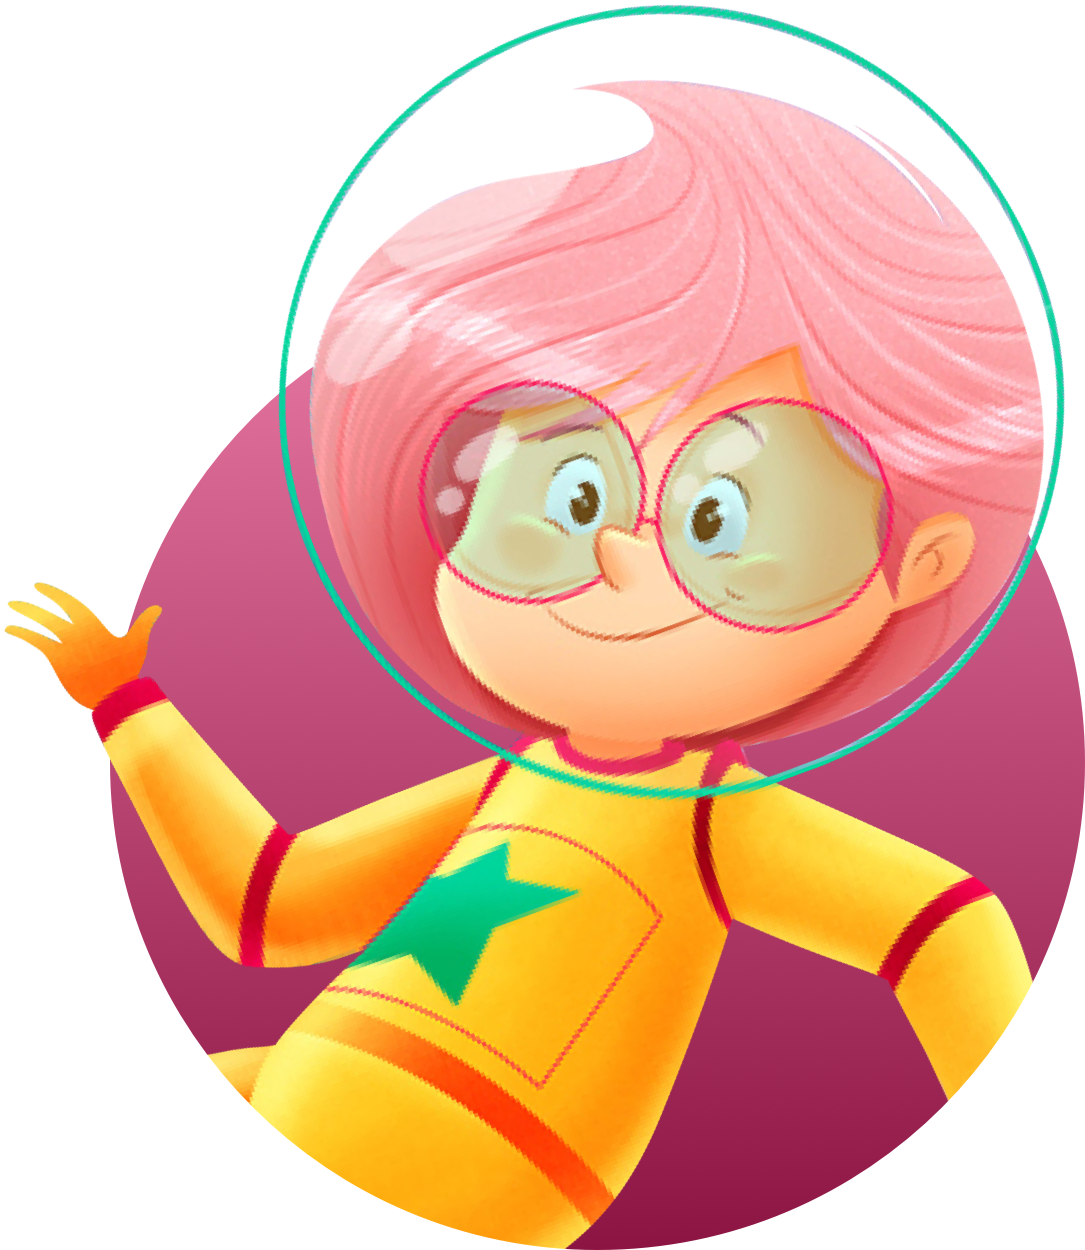
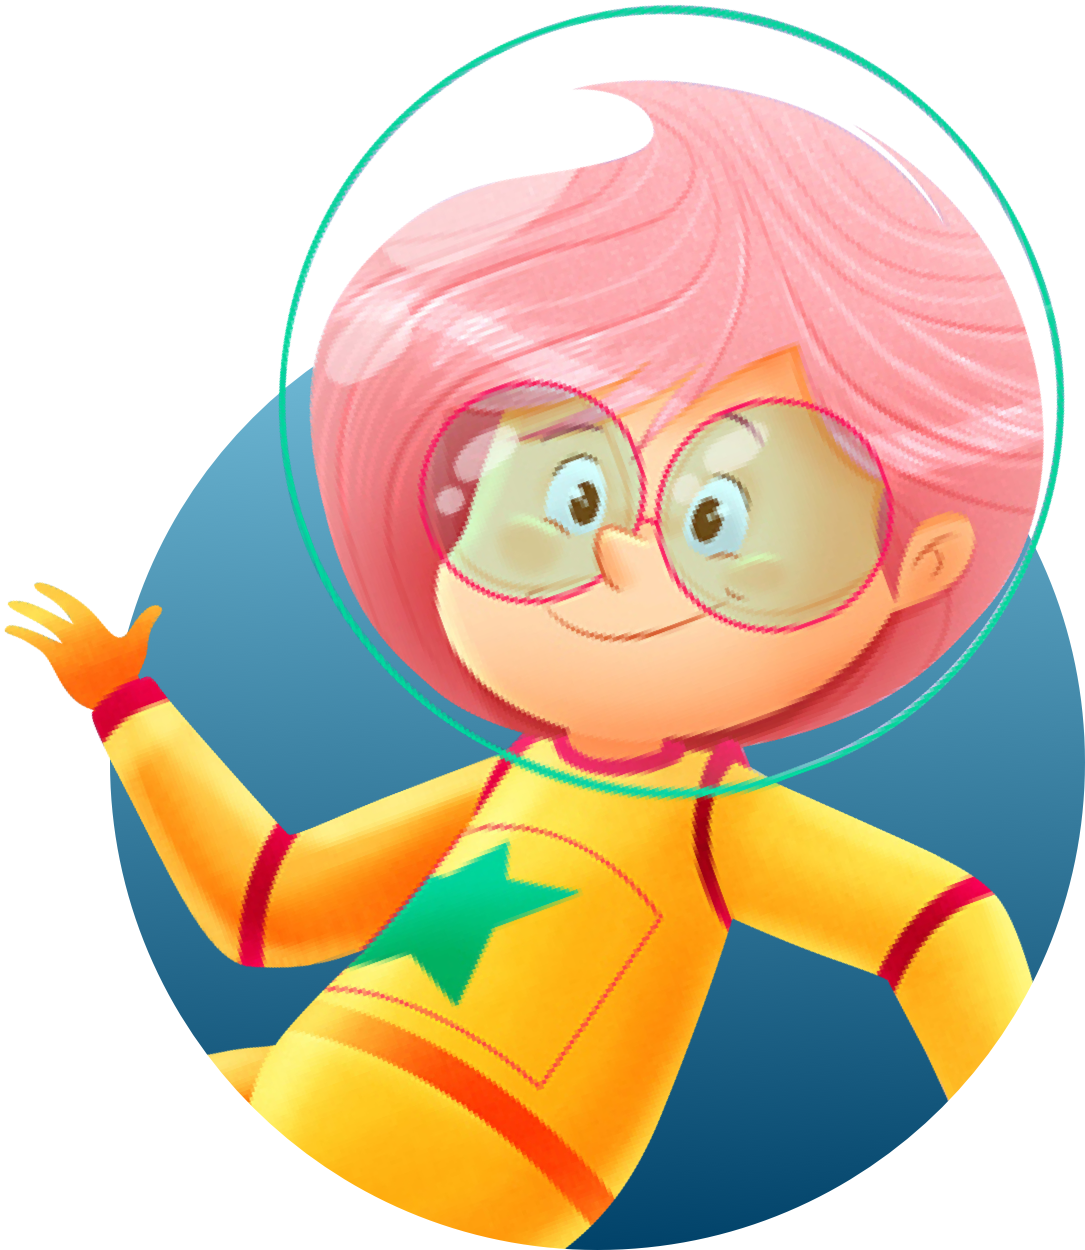
changed from red to blue theme color

diff --git a/src/styles/styles.css b/src/styles/styles.css
@@ -37,7 +37,7 @@ ul {
 }
 ul li::before {
   content: '\2022'; /* Add content: \2022 is the CSS Code/unicode for a bullet */
-  color: #8c1442; /* Change the color */
+  color: #0277bd; /* Change the color */
   font-weight: bold; /* If you want it to be bold */
   display: inline-block; /* Needed to add space between the bullet and the text */
   width: 1em; /* Also needed for space (tweak if needed) */
@@ -45,6 +45,6 @@ ul li::before {
 }
 
 a {
-  color: #8c1442;
+  color: #0277bd;
   text-decoration: none;
 }

diff --git a/src/components/header.tsx b/src/components/header.tsx
@@ -28,7 +28,7 @@ const styles = {
 const Header = ({ siteTitle }: { siteTitle: String }) => (
   <AppBar
     position="static"
-    css={{ color: '#fff', backgroundColor: colors.primary }}
+    css={{ color: '#fff', backgroundColor: colors.secondary }}
   >
     <Toolbar>
       <Link to="/" css={styles.logo} aria-label="Global Digital Library">

diff --git a/src/styles/colors.tsx b/src/styles/colors.tsx
@@ -1,9 +1,9 @@
-const CRIMSON_RED = '#8C1442';
-const DEEP_RED = '#4E0322';
+const OCEAN_BLUE = '#0277BD';
+const DEEP_BLUE = '#00294F';
 
 const colors = {
-  primary: CRIMSON_RED,
-  secondary: DEEP_RED,
+  primary: OCEAN_BLUE,
+  secondary: DEEP_BLUE,
   base: {
     white: '#fff',
     black: '#444',

diff --git a/src/elements/Cover.tsx b/src/elements/Cover.tsx
@@ -8,7 +8,7 @@ const Cover = styled.div`
   min-height: 380px;
   width: 100%;
   color: white;
-  background-color: ${colors.secondary};
+  background-color: ${colors.primary};
   ${mq({ padding: ['70px 30px', '50px 120px'] })} p {
     color: white;
   }

diff --git a/gatsby-config.js b/gatsby-config.js
@@ -1,7 +1,7 @@
 const GDL_ENVIRONMENT = process.env.GDL_ENVIRONMENT || 'dev';
 console.log(`Using environment config: '${GDL_ENVIRONMENT}'`);
 
-const PRIMARY_COLOR = '#8C1442';
+const PRIMARY_COLOR = '#0277BD';
 
 module.exports = {
   siteMetadata: {
